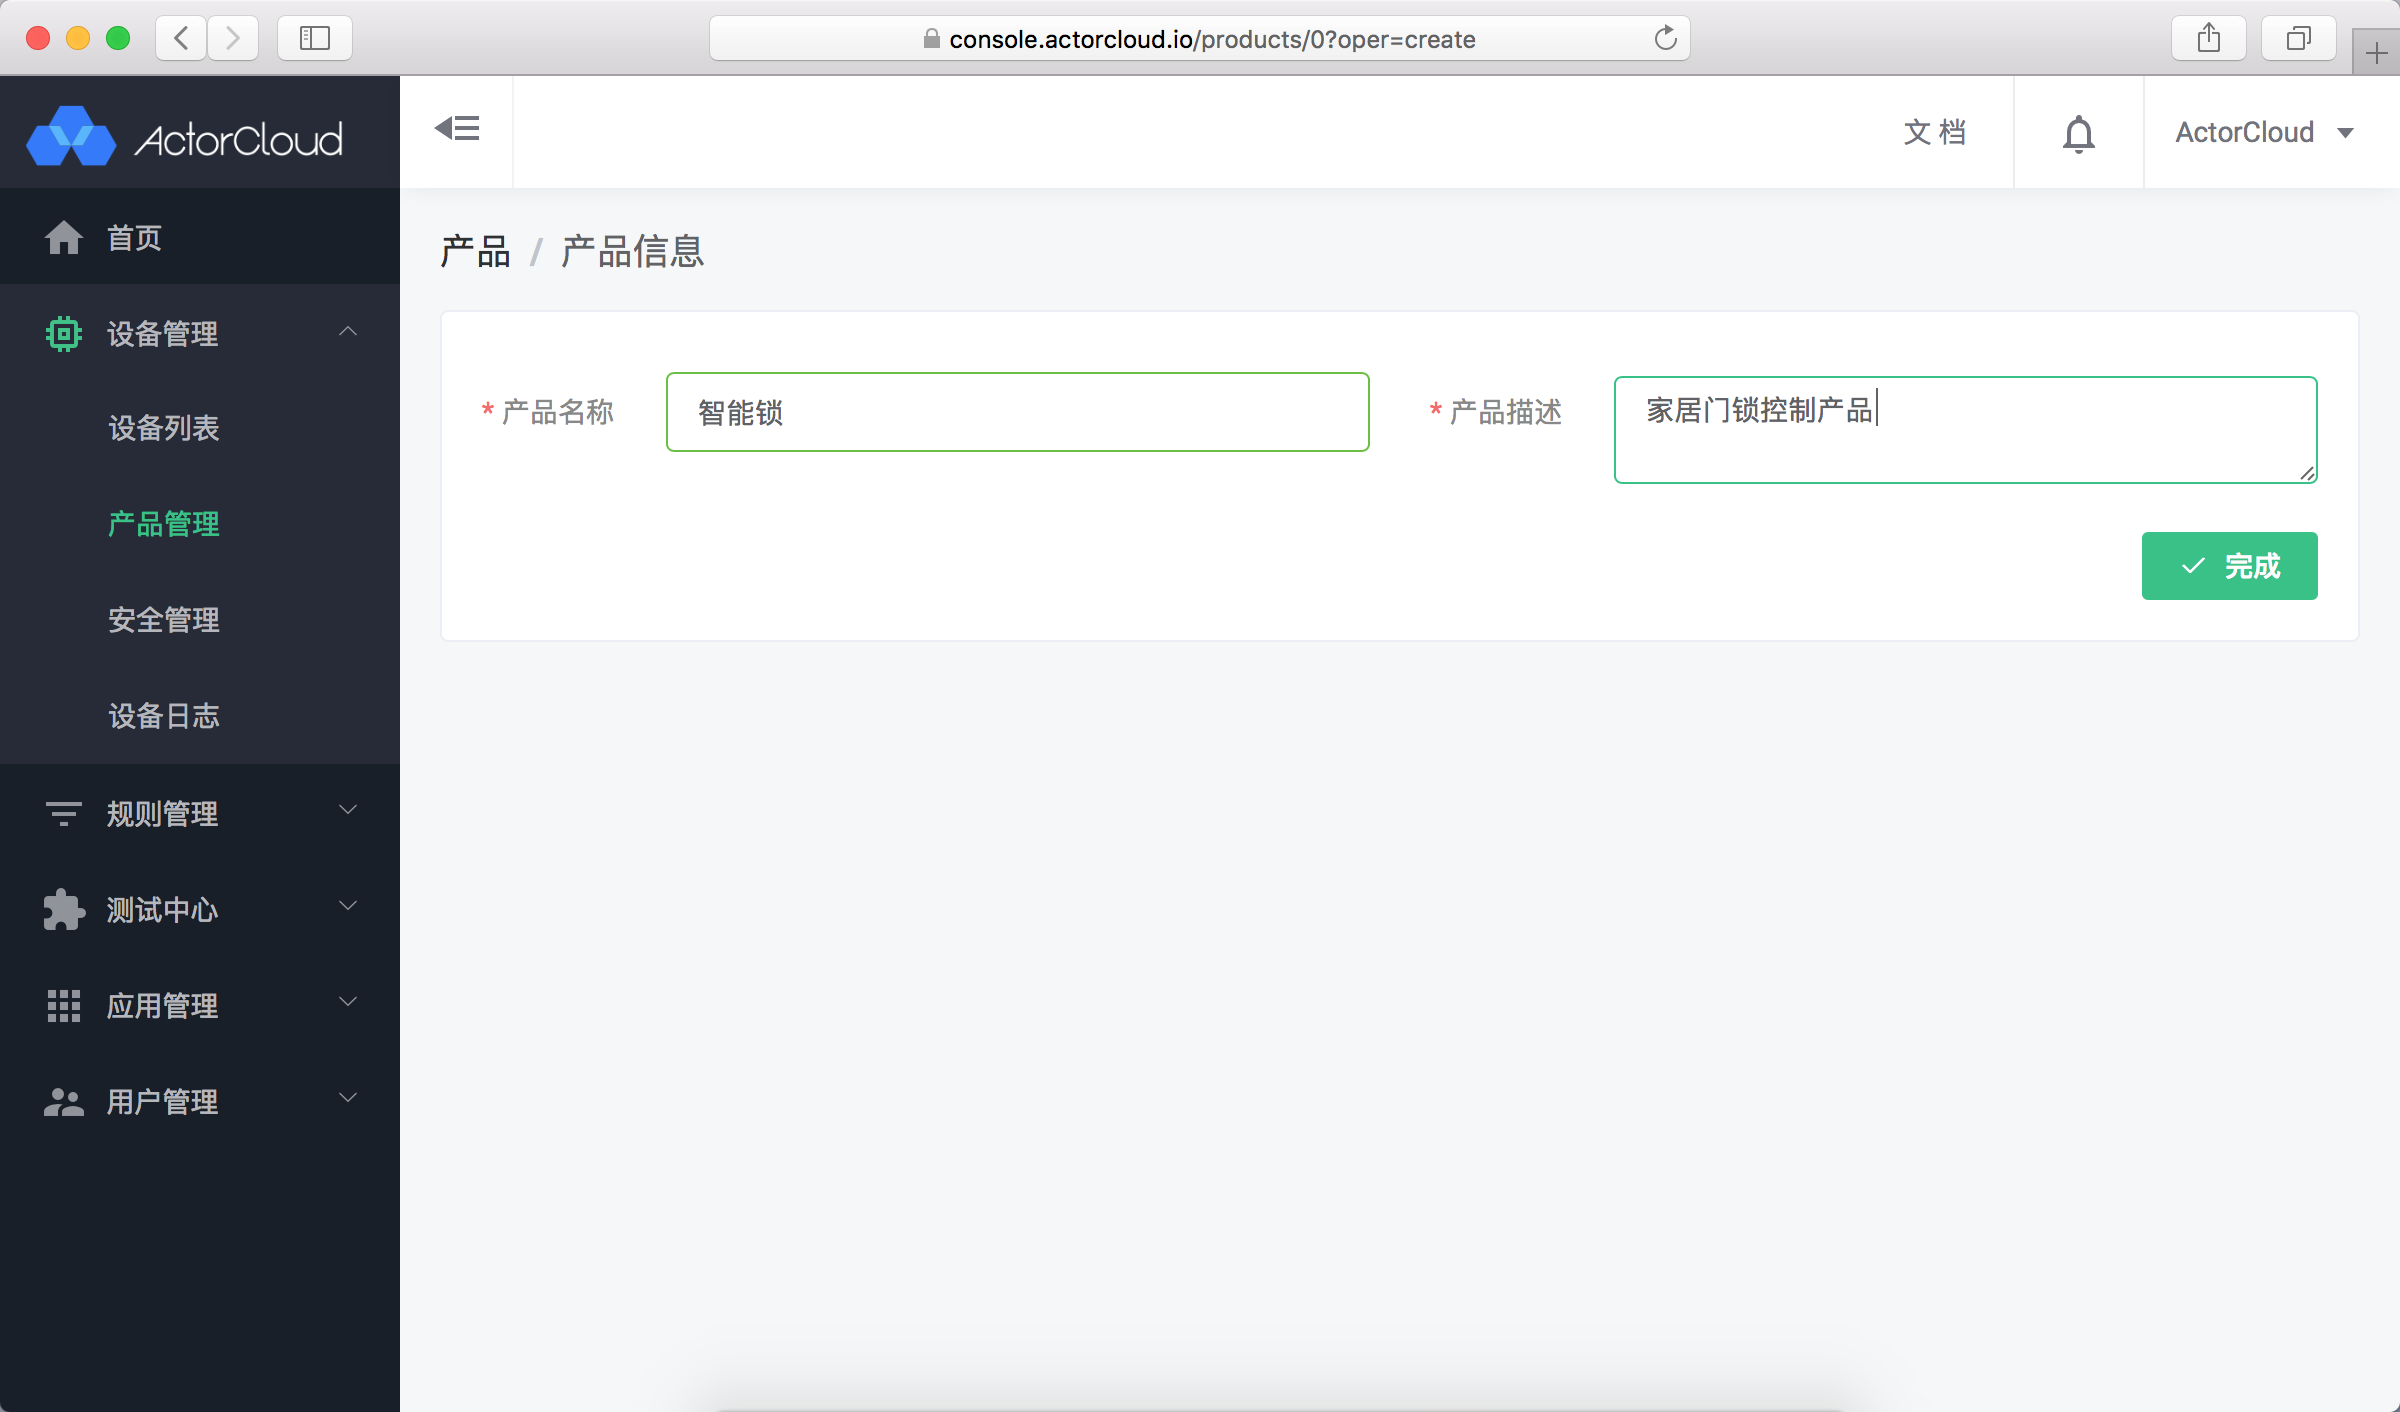
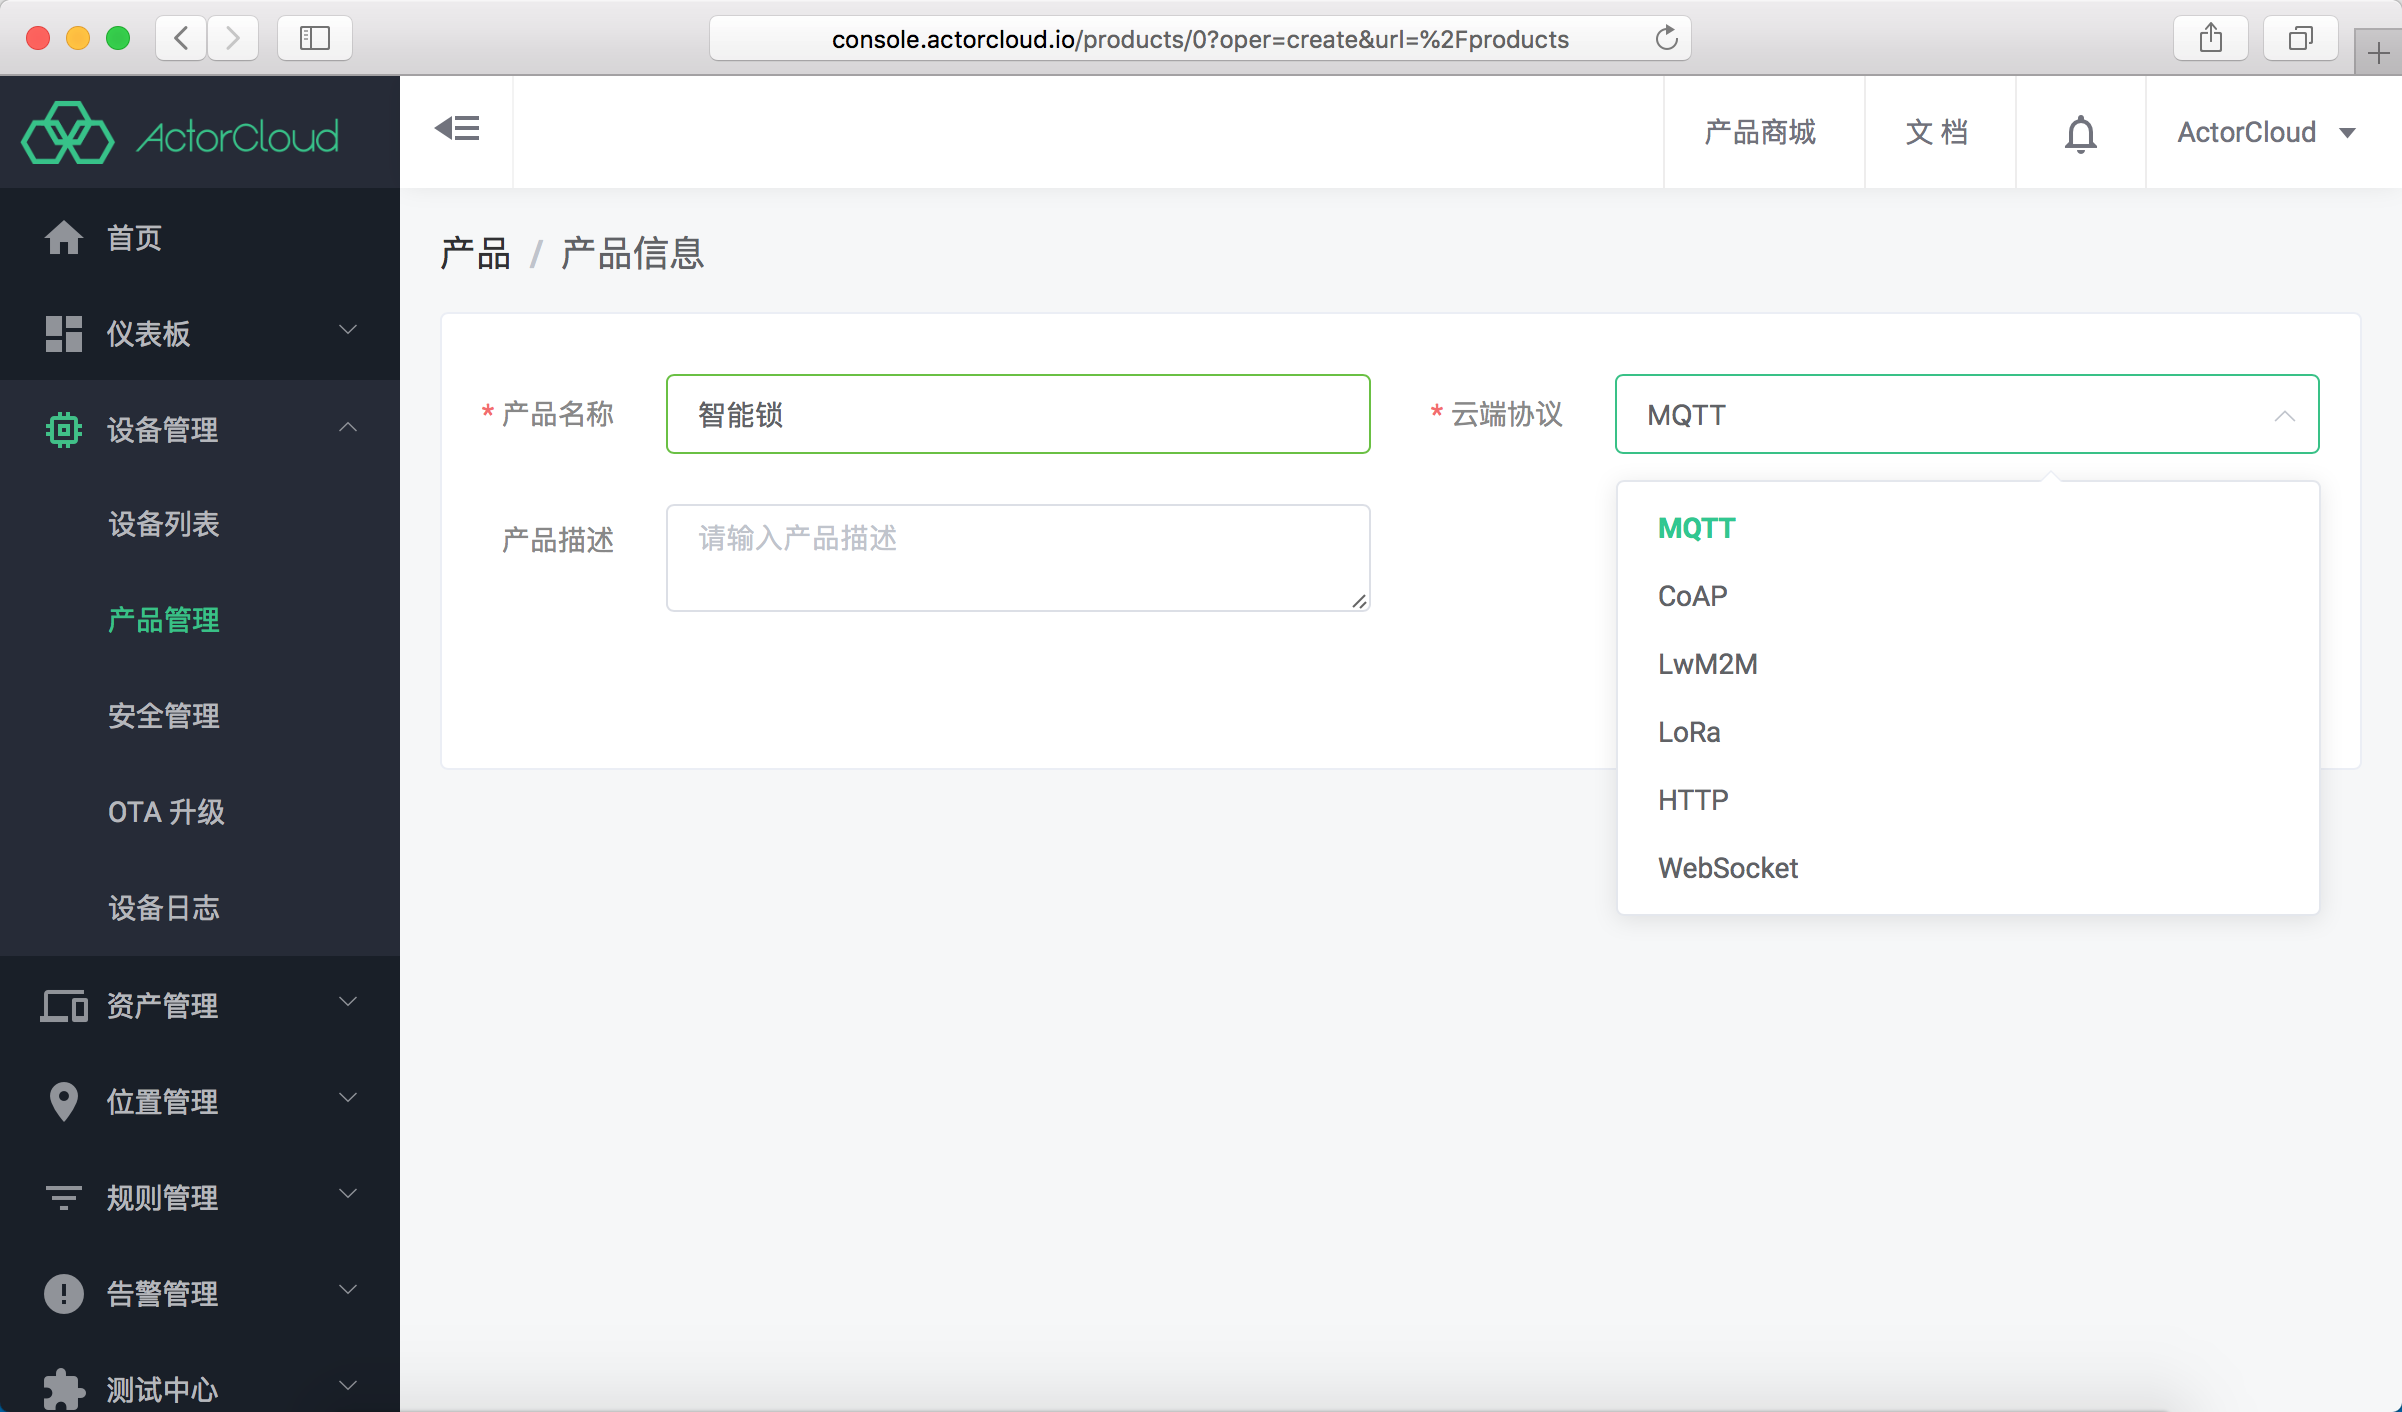
feat(app template): 新增应用模板文档

diff --git a/device/product.md b/device/product.md
@@ -6,14 +6,29 @@
 
 - 点击**设备数量**查看产品下设备列表；
 
-- 点击右上角的**新建**按钮可进行产品新建操作。
+- 点击右上角的**新建**按钮可进行产品新建操作，请按照产品接入协议选择相应的**云端协议**。
 
 ![](/assets/product_list.png)
 
 ![](/assets/product_create.png)
 
 
-产品详情页中有产品信息、功能点、数据流三个 TAB 页，点击可以管理该产品下的功能点与数据流。
+> 产品详情页中有不同的 TAB 页以定义不同的功能
+
+
+## 云端协议为 **LWM2M** 的产品额外支持以下模块
+
+
+### 属性列表
+
+由于 **LWM2M** 特殊性，**LWM2M** 产品无法定义功能点与数据流，
+只能在协议范围内定义支持的属性，新建属性时请根据协议手册输入对象 ID 与 属性 ID 进行属性查找与定义。
+
+![](/assets/product_item.png)
+
+
+## 云端协议非 **LWM2M** 的产品额外支持以下模块
+
 
 ### 功能点
 
@@ -22,8 +37,35 @@
 
 功能点定义关键信息如下：
 
-- 数据类型：该功能数据的格式，支持数值，枚举，字符串，故障，布尔值等，业务中必须传输 JSON 类型数据；
-- 功能点标识：该功能数据在传输中使用的 JSON key 值。
+- 功能点标识：该功能数据在传输中使用的 JSON key 值 (JSON 数据类型)、二进制数据类型转换后。
+
+- 数据类型：
+
+ - JSON：该功能数据的格式，支持数值，枚举，字符串，故障，布尔值等，业务中必须传输 JSON 类型数据；
+ 
+ - 二进制：由于二进制没有进行键-值编码，二进制传输信息的设备必须定义二进制功能点，下表是二进制数据类型定义指南：
+<!-- ../_dict/binary_parse.json --> 
+
+| 类型标识 | 名称        | 转换后类型   | 长度必填   |
+| ---- | --------- | ------- | ------ |
+| 11   | 定长字符串     | String  | 是      |
+| 12   | 定长字符串     | String  | 否      |
+| 13   | 定长 binary | Integer | 是      |
+| 14   | 变长 binary | Integer | 否      |
+| 15   | 有符号整型     | Integer | 是      |
+| 16   | 无符号整型     | Integer | 是      |
+| 17   | 单精度浮点型    | Float   | 是      |
+| 18   | 双精度浮点型    | Float   | 是      |
+| 18   | bit 类型    | --      | 数据集自定义 |
+ 
+ 
+ - 枚举
+ 
+ 某些功能点不同数值如开关状态、噪声等级等有特定的含义，可以枚举出来，这类功能点可以添加枚举选项。
+ 
+   - 实际值：实际上报、下发的值；
+ 
+   - 显示值：显示在 ActorCloud 界面上的值。
 
 定义示例：
 
@@ -57,3 +99,64 @@
 - 温湿度传感器需要上报温度与湿度信息，则数据流名称可以为温湿度数据流，功能点包含温度与湿度，主题为 `temp_hum`：
 
 ![](/assets/stream_create.png)
+
+
+
+## 所有云端协议的产品均支持的模块
+
+### 设备列表
+
+显示当前产品下的设备列表，操作同 **设备管理** -> **设备列表**。
+
+
+### 指标管理
+
+指标管理具有统计功能，用于聚合统计一个周期内数值类型的功能点、产品属性等信息数据并图表展示。
+
+指标管理统计的数据将在 **设备详情** -> **指标数据** 中展示。
+
+- 图表类型：需要展现的图表类型；
+
+- 视图展示：该指标是否展示图表；
+
+- 聚合方式：周期内统计的方式，支持最大值、最小值、平均值、累计值等展示。
+
+![](/assets/metrics.png)
+
+
+### 代理订阅
+
+设备连接后将自动订阅的主题列表。
+
+
+### 资源定义
+
+将设备上报某些属性、功能点关联到设备资源。
+
+目前支持序列号、软件版本、硬件版本、制造商四个设备资源定义，即设备上报了指定功能点后，该数值会被同步更新到设备属性。
+
+
+### 应用模板
+
+应用模板将一条数据流/产品属性中的某个值定义为一个操作卡片，其他值需要有一个默认值，以实现点击操作卡片一键下送控制指令的功能。
+
+应用模板只支持下发数据流与数据传输类型包含**可下发**的功能点，对于 **LWM2M** 设备，仅支持**E**(执行)、**W**(写入)的产品属性。
+
+
+模板格式对应可视化操作的卡片表现形式：
+
+  - 数值、字符、时间类型：下发时需要指定数值；
+
+  - 枚举类型：点击枚举值按钮可以将相关指令下发至设备；
+  
+  - 开关：点击开关可以下发切换设备状态的指令；
+  
+  - 布尔：点击 `true` `false` 按钮可以将相应指令下发至设备。
+  
+  
+  ![](/assets/app_templates.png)
+  
+  ![](/assets/app_templates_list.png)
+
+  
+  > 每个卡片可以拖拽改变位置、点击右下角拖放改变尺寸。设备详情->控制台 页面将会按照该页面设置的模板与顺序展现。
